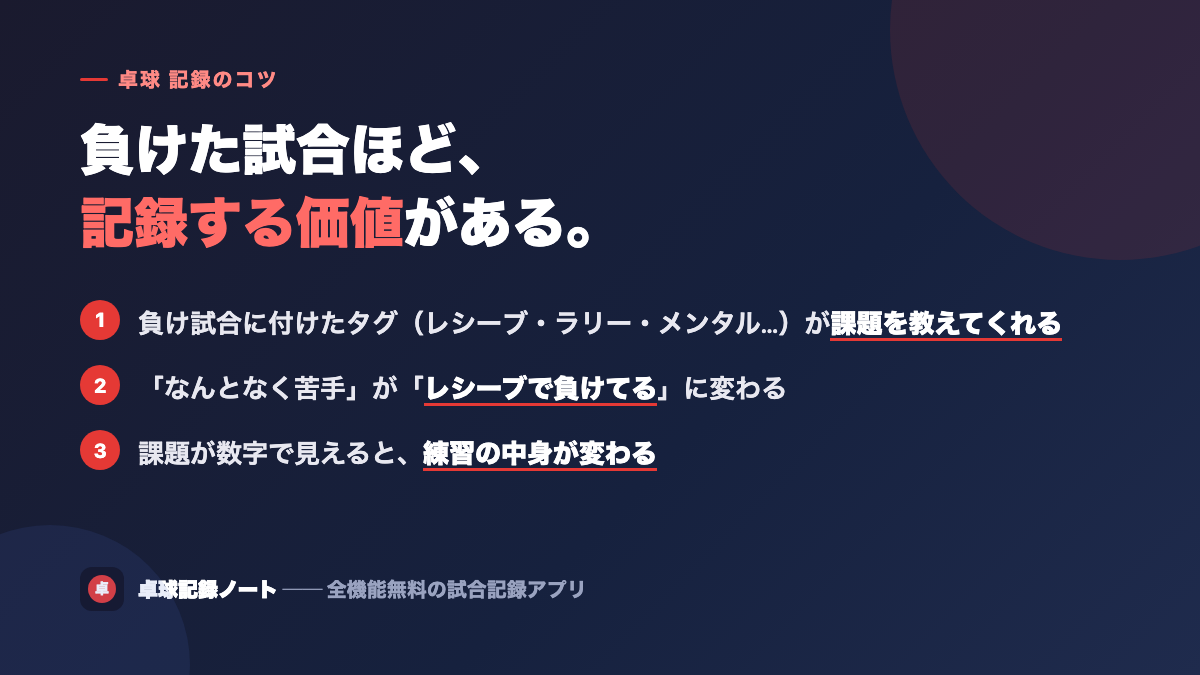
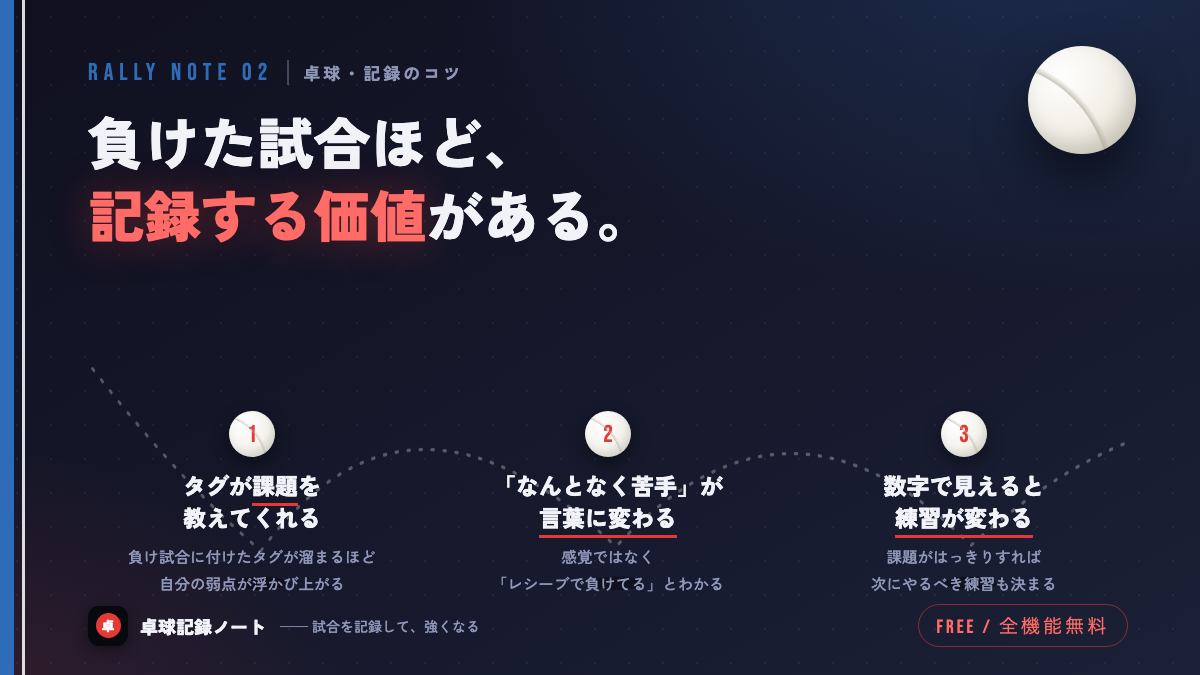
docs: X投稿カードを卓球モチーフの洗練デザインに刷新
- バウンドする球の軌道が3つのポイント番号（卓球ボール型バッジ）を
  繋ぐ構成。装飾でなく情報構造に卓球らしさを組み込んだ
- 左端に卓球台エッジ（ITTFブルー＋白ライン）、右上に質感のある
  ピンポン球、背景に微細ドットパターン
- タイポグラフィ: Zen Kaku Gothic New (900) + Bebas Neue の組み合わせ
- 今後のカード量産用に HTML テンプレートを docs/assets/templates/ に保存

diff --git a/docs/assets/templates/tips-card-template.html b/docs/assets/templates/tips-card-template.html
@@ -1,0 +1,190 @@
+<!DOCTYPE html>
+<html lang="ja">
+<head>
+<meta charset="UTF-8">
+<style>
+  @import url('https://fonts.googleapis.com/css2?family=Zen+Kaku+Gothic+New:wght@500;700;900&family=Bebas+Neue&display=swap');
+
+  :root {
+    --navy: #10101f;
+    --navy2: #1b2036;
+    --table: #2e6cb8;
+    --red: #e53935;
+    --red-soft: #ff6b66;
+    --ink: #f2f3f8;
+    --muted: #8f97b8;
+  }
+  * { box-sizing: border-box; margin: 0; padding: 0; }
+  body {
+    width: 1200px; height: 675px;
+    font-family: 'Zen Kaku Gothic New', sans-serif;
+    background:
+      radial-gradient(1000px 600px at 85% -10%, rgba(46,108,184,0.25), transparent 60%),
+      radial-gradient(700px 500px at -5% 110%, rgba(229,57,53,0.16), transparent 60%),
+      linear-gradient(150deg, var(--navy) 0%, var(--navy2) 100%);
+    color: var(--ink);
+    position: relative;
+    overflow: hidden;
+  }
+
+  /* 卓球台のエッジ: 左端の青帯 + 白ライン */
+  .table-edge {
+    position: absolute; left: 0; top: 0; bottom: 0; width: 14px;
+    background: var(--table);
+  }
+  .table-line {
+    position: absolute; left: 22px; top: 0; bottom: 0; width: 3px;
+    background: rgba(255,255,255,0.85);
+  }
+
+  /* うっすらドットパターン（ボールの連想） */
+  .dots {
+    position: absolute; inset: 0;
+    background-image: radial-gradient(rgba(255,255,255,0.05) 1.5px, transparent 1.5px);
+    background-size: 34px 34px;
+  }
+
+  .content { position: relative; z-index: 2; padding: 58px 72px 0 88px; height: 100%; display: flex; flex-direction: column; }
+
+  .kicker {
+    display: flex; align-items: center; gap: 14px;
+    margin-bottom: 18px;
+  }
+  .kicker .en {
+    font-family: 'Bebas Neue', sans-serif;
+    font-size: 24px; letter-spacing: 6px; color: var(--table);
+  }
+  .kicker .ja {
+    font-size: 17px; font-weight: 700; color: var(--muted); letter-spacing: 3px;
+    border-left: 2px solid rgba(143,151,184,0.4); padding-left: 14px;
+  }
+
+  h1 {
+    font-weight: 900; font-size: 56px; line-height: 1.3; letter-spacing: 0.5px;
+    margin-bottom: 8px;
+  }
+  h1 .accent {
+    color: var(--red-soft);
+    text-shadow: 0 0 40px rgba(229,57,53,0.35);
+  }
+
+  /* ラリー軌道 + 3ポイント */
+  .rally { position: relative; flex: 1; margin-top: 10px; }
+  .rally svg.path { position: absolute; inset: 0; width: 100%; height: 100%; }
+
+  .points { position: absolute; left: 0; right: 0; bottom: 78px; display: flex; gap: 28px; }
+  .point { flex: 1; position: relative; padding-top: 58px; }
+
+  /* 卓球ボール型の番号バッジ */
+  .ball {
+    position: absolute; top: 0; left: 0;
+    width: 46px; height: 46px; border-radius: 50%;
+    background: radial-gradient(circle at 34% 30%, #ffffff 0%, #f4f2ec 55%, #d9d5c8 100%);
+    box-shadow: 0 6px 18px rgba(0,0,0,0.45), inset -3px -5px 8px rgba(0,0,0,0.08);
+    display: flex; align-items: center; justify-content: center;
+  }
+  .ball::after {
+    /* ボールのシームライン */
+    content: ''; position: absolute; inset: 0; border-radius: 50%;
+    background: radial-gradient(circle at -30% 120%, transparent 62%, rgba(180,175,160,0.55) 62.5%, transparent 66%);
+  }
+  .ball .n {
+    font-family: 'Bebas Neue', sans-serif; font-size: 24px; color: var(--red);
+    transform: translateY(1px);
+  }
+
+  .point h2 { font-size: 23px; font-weight: 900; line-height: 1.4; margin-bottom: 8px; min-height: 66px; }
+  .point h2 .em { border-bottom: 3px solid var(--red); padding-bottom: 1px; }
+  .point p { font-size: 15.5px; font-weight: 500; color: var(--muted); line-height: 1.75; }
+
+  .footer {
+    position: absolute; left: 0; right: 0; bottom: 0; z-index: 2;
+    display: flex; align-items: center; justify-content: space-between;
+    padding: 0 72px 28px 88px;
+  }
+  .brand { display: flex; align-items: center; gap: 12px; }
+  .logo {
+    width: 40px; height: 40px; background: #08080f; border-radius: 11px;
+    display: flex; align-items: center; justify-content: center;
+    box-shadow: 0 4px 14px rgba(0,0,0,0.4);
+  }
+  .logo-inner {
+    width: 25px; height: 25px; background: var(--red); border-radius: 50%;
+    display: flex; align-items: center; justify-content: center;
+    color: #fff; font-size: 13px; font-weight: 900;
+  }
+  .brand .name { font-size: 18px; font-weight: 900; }
+  .brand .desc { font-size: 14px; font-weight: 500; color: var(--muted); margin-left: 2px; }
+  .free {
+    font-family: 'Bebas Neue', sans-serif; font-size: 19px; letter-spacing: 3px;
+    color: var(--red-soft); border: 1.5px solid rgba(229,57,53,0.55);
+    padding: 6px 18px; border-radius: 999px;
+  }
+
+  /* 右上の大きなボール（装飾） */
+  .hero-ball {
+    position: absolute; top: 46px; right: 64px; width: 108px; height: 108px; border-radius: 50%;
+    background: radial-gradient(circle at 32% 28%, #ffffff 0%, #f2efe7 50%, #cfcaba 100%);
+    box-shadow: 0 24px 50px rgba(0,0,0,0.5), inset -6px -10px 18px rgba(0,0,0,0.1);
+    z-index: 1;
+  }
+  .hero-ball::after {
+    content: ''; position: absolute; inset: 0; border-radius: 50%;
+    background: radial-gradient(circle at -40% 130%, transparent 60%, rgba(170,165,148,0.6) 60.6%, transparent 63.5%);
+  }
+</style>
+</head>
+<body>
+  <div class="table-edge"></div>
+  <div class="table-line"></div>
+  <div class="dots"></div>
+  <div class="hero-ball"></div>
+
+  <div class="content">
+    <div class="kicker">
+      <span class="en">RALLY NOTE 02</span>
+      <span class="ja">卓球・記録のコツ</span>
+    </div>
+    <h1>負けた試合ほど、<br><span class="accent">記録する価値</span>がある。</h1>
+
+    <div class="rally">
+      <!-- バウンドする球の軌道（点線） -->
+      <svg class="path" viewBox="0 0 1040 300" preserveAspectRatio="none" fill="none">
+        <path d="M -30 40 Q 80 150 173 208 Q 320 60 528 205 Q 700 68 883 204 Q 980 140 1070 120"
+          stroke="rgba(255,255,255,0.28)" stroke-width="2.5" stroke-dasharray="2 10" stroke-linecap="round"/>
+        <!-- バウンドの影 -->
+        <ellipse cx="173" cy="232" rx="26" ry="5" fill="rgba(0,0,0,0.35)"/>
+        <ellipse cx="528" cy="232" rx="26" ry="5" fill="rgba(0,0,0,0.35)"/>
+        <ellipse cx="883" cy="232" rx="26" ry="5" fill="rgba(0,0,0,0.35)"/>
+      </svg>
+
+      <div class="points">
+        <div class="point">
+          <div class="ball" style="left: calc(50% - 23px);"><span class="n">1</span></div>
+          <h2 style="text-align:center;">タグが<span class="em">課題</span>を<br>教えてくれる</h2>
+          <p style="text-align:center;">負け試合に付けたタグが溜まるほど<br>自分の弱点が浮かび上がる</p>
+        </div>
+        <div class="point">
+          <div class="ball" style="left: calc(50% - 23px);"><span class="n">2</span></div>
+          <h2 style="text-align:center;">「なんとなく苦手」が<br><span class="em">言葉に変わる</span></h2>
+          <p style="text-align:center;">感覚ではなく<br>「レシーブで負けてる」とわかる</p>
+        </div>
+        <div class="point">
+          <div class="ball" style="left: calc(50% - 23px);"><span class="n">3</span></div>
+          <h2 style="text-align:center;">数字で見えると<br><span class="em">練習が変わる</span></h2>
+          <p style="text-align:center;">課題がはっきりすれば<br>次にやるべき練習も決まる</p>
+        </div>
+      </div>
+    </div>
+  </div>
+
+  <div class="footer">
+    <div class="brand">
+      <div class="logo"><div class="logo-inner">卓</div></div>
+      <span class="name">卓球記録ノート</span>
+      <span class="desc">── 試合を記録して、強くなる</span>
+    </div>
+    <div class="free">FREE / 全機能無料</div>
+  </div>
+</body>
+</html>
